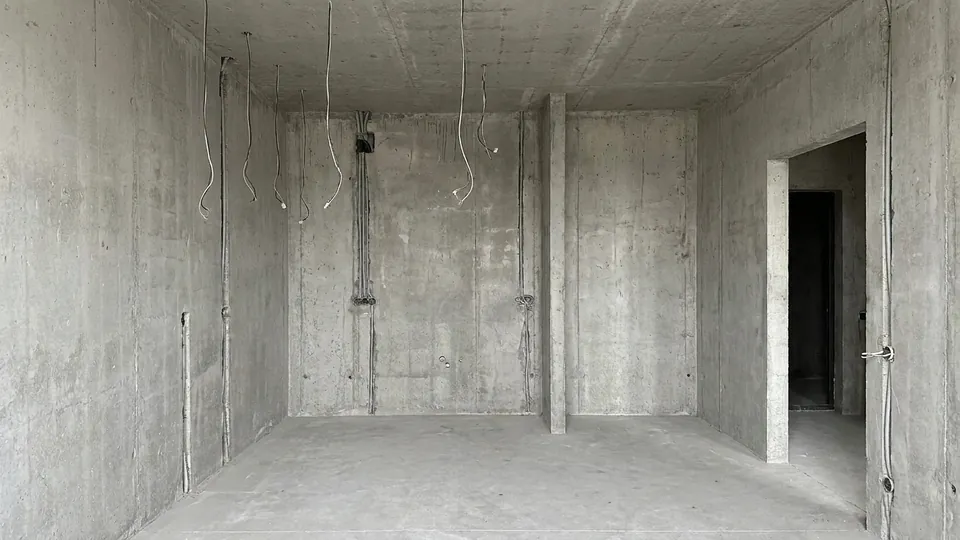
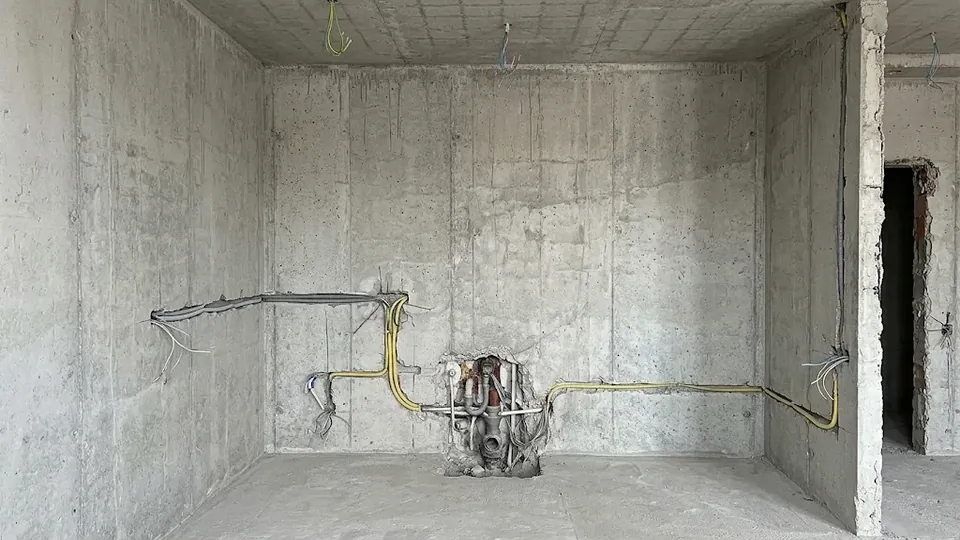
Обложка: четыре кадра стройки — бетон, черновые, чистовая, кухня (#35)
Claude-Session: https://claude.ai/code/session_012DcitKLTaHsopsAiqJcMYF

diff --git a/src/app/page.tsx b/src/app/page.tsx
@@ -30,10 +30,12 @@ export const metadata: Metadata = { title: { absolute: site.title }, description
 const [h1a, h1b] = home.h1.split(/\s—\s/);
 // Финальный кадр обложки — кухня в «Клевер Парке» (решение Ника 11.11.2026); ролик стройки — site.heroVideo
 const hero = pic("clover-park/05");
-// Кадры стройки (ElevenLabs, Nano Banana Pro по фото «Клевер Парка», 11.11.2026): бетон → … → готовая кухня.
-// Промежуточные кадры добавляются сюда по мере генерации — компонент сам делит прокрутку поровну.
+// Кадры стройки (Nano Banana в Gemini, цепочкой от фото «Клевер Парка», 11.11.2026): бетон → черновые → чистовая → кухня.
+// Каждый кадр проявляется в начале своего шага (компонент делит прокрутку поровну).
 const buildFrames = [
-  { src: "/images/hero/build-1.webp", small: "/images/hero/build-1-960.webp", alt: "Та же квартира до ремонта: бетонные стены и потолок, провода" },
+  { src: "/images/hero/build-1.webp", small: "/images/hero/build-1-960.webp", alt: "Квартира до ремонта: бетонные стены и потолок, открытые трассы" },
+  { src: "/images/hero/build-2.webp", small: "/images/hero/build-2-960.webp", alt: "После черновых работ: штукатурка, стяжка, выводы под кухню" },
+  { src: "/images/hero/build-3.webp", small: "/images/hero/build-3-960.webp", alt: "После чистовой отделки: покраска, пол, свет, выводы под кухню" },
   { src: `${hero.base}-wide.webp`, small: `${hero.base}-wide-960.webp`, alt: hero.alt },
 ];
 // Шаги поверх обложки — по стадиям ремонта (content/process.ts), короче

diff --git a/src/components/hero-build.tsx b/src/components/hero-build.tsx
@@ -55,13 +55,13 @@ export function HeroBuild({ photo, video, frames, steps, children }: { photo: Pi
             <source src={video.src} type="video/mp4" />
           </video>
         ) : frames && frames.length > 1 ? (
-          // Кадр k проявляется поверх предыдущего на своём отрезке прокрутки; --q — доля после обложки (0…1)
+          // Кадр k проявляется поверх предыдущего в первые 40 % своего шага и держится до следующего; --q — доля после обложки (0…1)
           frames.map((f, k) => (
             // eslint-disable-next-line @next/next/no-img-element
             <img key={f.src} src={f.src} srcSet={`${f.small} 960w, ${f.src} 1920w`} sizes="100vw" alt={k === frames.length - 1 ? f.alt : ""} aria-hidden={k === frames.length - 1 ? undefined : true}
               width={1920} height={1080} loading={k < 2 ? "eager" : "lazy"} decoding="async"
               className="build-frame absolute inset-0 size-full object-cover"
-              style={k === 0 ? undefined : { opacity: `clamp(0, calc(var(--q) * ${frames.length - 1} - ${k - 1}), 1)` } as React.CSSProperties} />
+              style={k === 0 ? undefined : { opacity: `clamp(0, calc((var(--q) * ${frames.length - 1} - ${k - 1}) * 2.5), 1)` } as React.CSSProperties} />
           ))
         ) : (
           <div className="hero-build-photo absolute inset-0"><Img p={photo} eager wide sizes="100vw" /></div>
